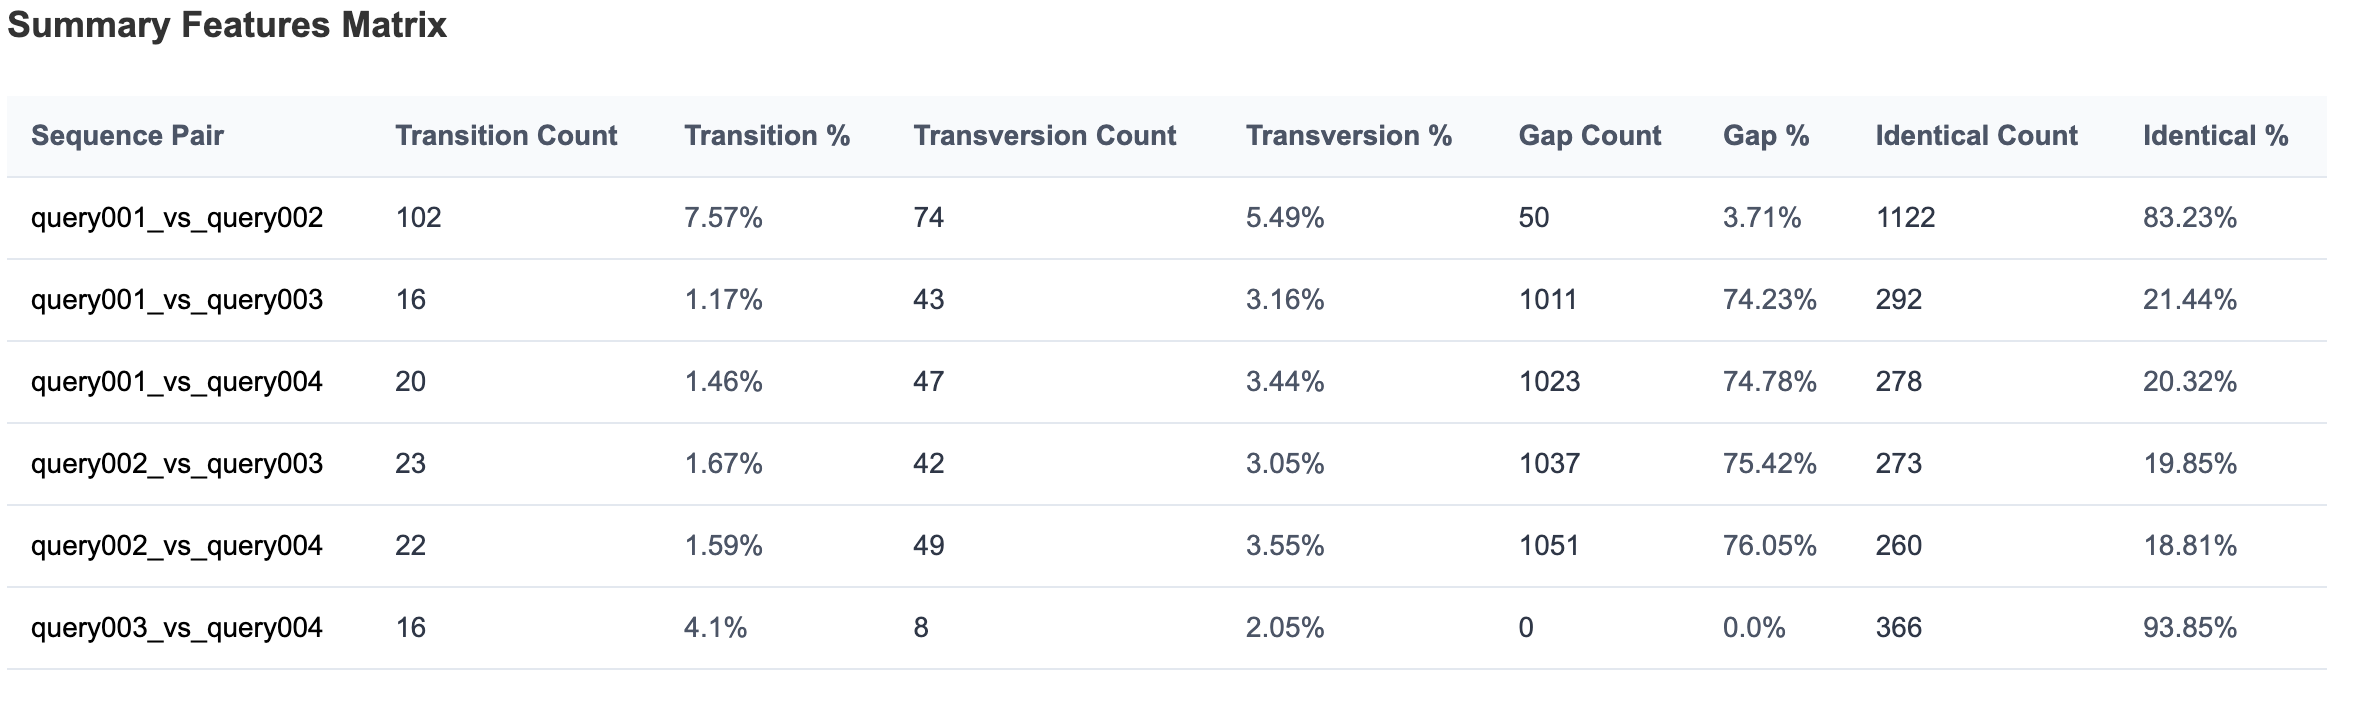
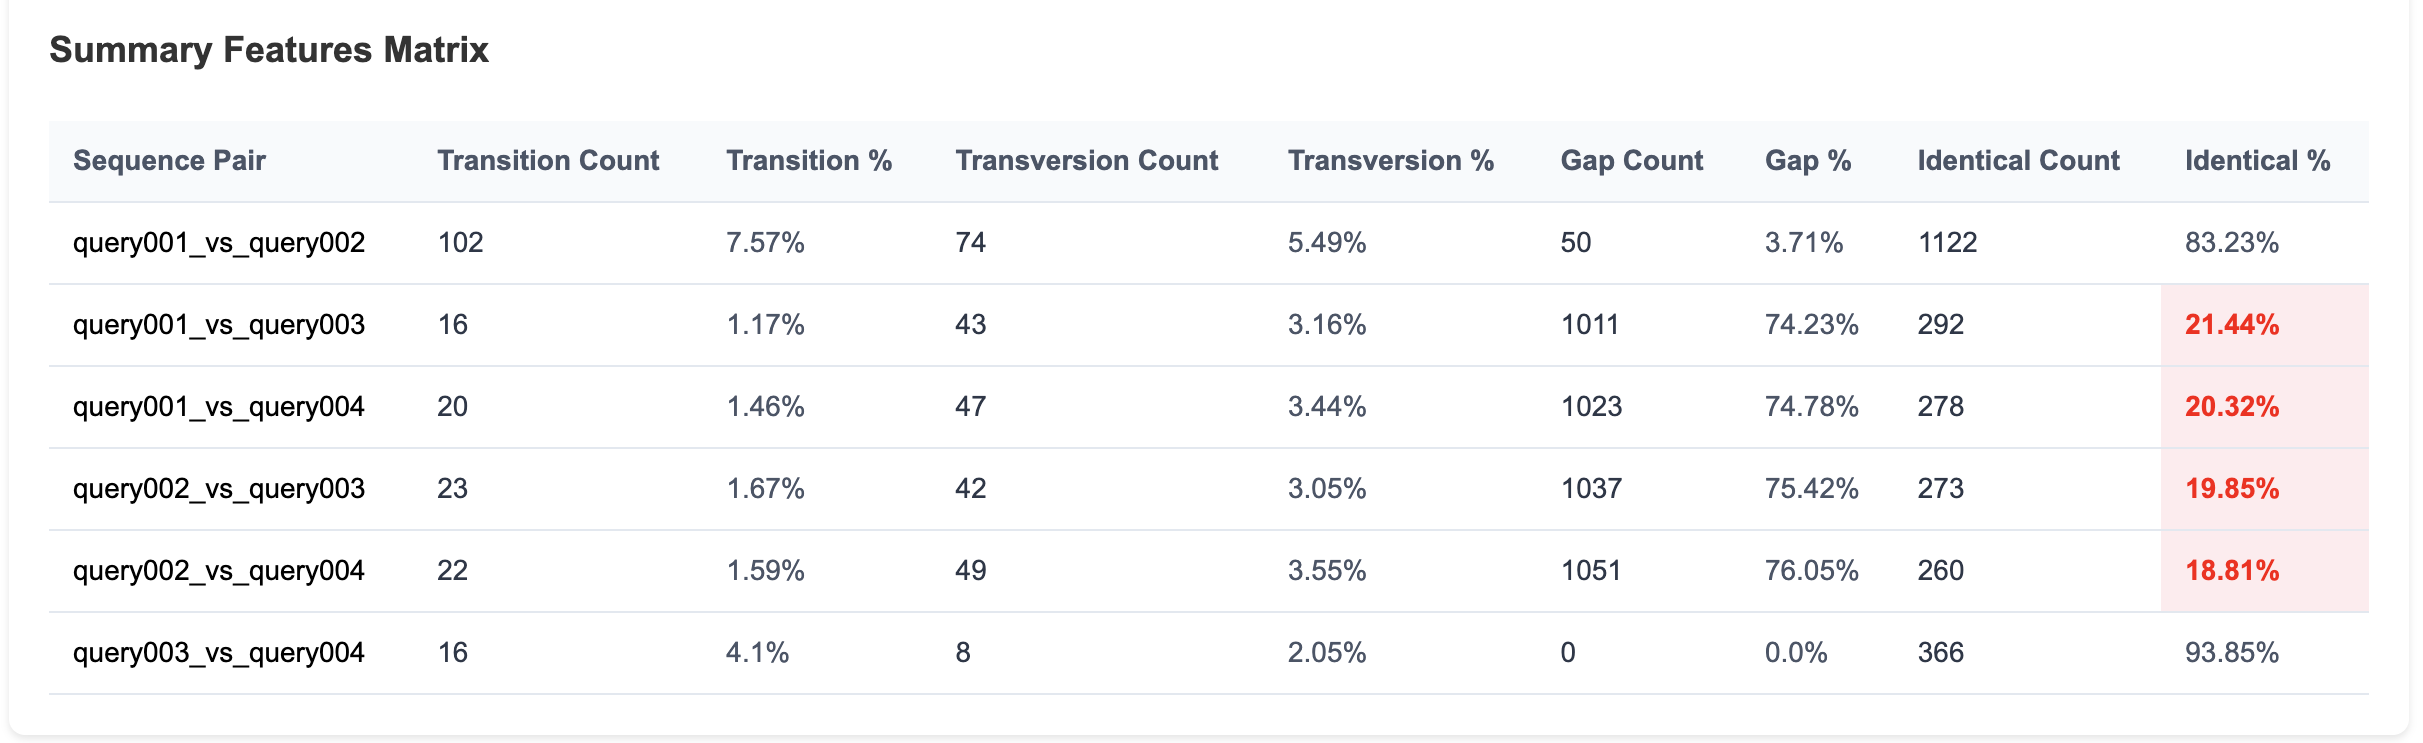
Update summary dashboard, color alignment, and related templates and scripts

diff --git a/app/templates/home.html b/app/templates/home.html
@@ -98,6 +98,7 @@
         </div>
         <br>
         
+        
 
         <!-- Button to Auto-Upload Sample File -->
         <button type="button" id="uploadSampleBtn" 
@@ -140,8 +141,12 @@
         <strong>Minimum Sequences:</strong> The file must contain at least two sequences.
       </li>
 
+      <li style="color: #d32f2f;">
+        <b style="color: inherit;">Since global alignment is performed, ensure that the sequences being compared share a significant level of similarity</b>. Although results will be generated for all sequence pairs, <br> those with less than <b style="color: inherit;">60%</b> identity will be specifically highlighted in the dashboard for further attention.
+      </li>
+      
       <li>
-        If EMBOSS Stretcher is selected, make sure the gap open and gap extend are above 1 and whole numbers <b>(NO FLOATS)</b>
+        If EMBOSS Stretcher is selected, make sure the gap open and gap extend are above 1 and whole numbers <b>(NO FLOATS).</b>
       </li>
       <li>
         <strong>File Size:</strong> The maximum file size is <b>10MB</b>. For larger files, please split them into smaller files before uploading.
@@ -152,19 +157,20 @@
           <li>
             <strong>Automatic Algorithm Selection:</strong> 
             <ul style="list-style-type: circle; padding-left: 20px; margin-top: 5px;">
-              <li>If <b>any sequence</b> exceeds <b>3,000 bases</b>, the system will automatically switch to the <b>Stretcher</b> algorithm for all sequence comparisons</li>
+              <li>If <b>any sequence</b> exceeds <b>3,000 bases</b>, the system will automatically switch to the <b>Stretcher</b> algorithm for all sequence comparisons.</li>
               <li>In this case, if your custom gap parameters are below 1:
                 <ul style="list-style-type: square; padding-left: 20px;">
                   <li>Gap Open will default to <b>16</b></li>
                   <li>Gap Extend will default to <b>4</b></li>
                 </ul>
               </li>
-              <li>This applies to <b>all sequences</b> in the file, regardless of their individual lengths</li>
+              <li>This applies to <b>all sequences</b> in the file, regardless of their individual lengths.</li>
             </ul>
           </li>
           <li>
             Files containing sequences longer than <b>10,000 bases</b> will be rejected.
           </li>
+      
           <br>
         </ul>
       </li>

diff --git a/app/static/js/colour_alignment.js b/app/static/js/colour_alignment.js
@@ -80,7 +80,7 @@ function updateQueryrequest(event) {
           </thead>
           <tbody>
             <tr>
-              <td style="border: 1px solid black; padding: 8px;">Identical</td>
+              <td style="border: 1px solid black; padding: 8px;">Identity</td>
               <td style="border: 1px solid black; padding: 8px;">${data.stats.identical}</td>
               <td style="border: 1px solid black; padding: 8px;">${data.stats.identical_percent.toFixed(2)}%</td>
             </tr>
@@ -95,7 +95,7 @@ function updateQueryrequest(event) {
               <td style="border: 1px solid black; padding: 8px;">${data.stats.transversions_percent.toFixed(2)}%</td>
             </tr>
             <tr>
-              <td style="border: 1px solid black; padding: 8px;">Gapes</td>
+              <td style="border: 1px solid black; padding: 8px;">Gaps</td>
               <td style="border: 1px solid black; padding: 8px;">${data.stats.gaps}</td>
               <td style="border: 1px solid black; padding: 8px;">${data.stats.gaps_percent.toFixed(2)}%</td>
             </tr>
@@ -117,7 +117,7 @@ function updateQueryrequest(event) {
         new Chart(ctx, {
           type: 'pie',
           data: {
-            labels: ['Identical', 'Transitions', 'Transversions', 'Gaps','Ambiguous (N)'],
+            labels: ['Identity', 'Transitions', 'Transversions', 'Gaps','Ambiguous (N)'],
             datasets: [{
               data: [
                 data.stats.identical_percent,

diff --git a/app/templates/partials/summary_dashboard.html b/app/templates/partials/summary_dashboard.html
@@ -99,7 +99,11 @@
                       <td class="count">{{ row['Gap_Count'] }}</td>
                       <td class="percentage">{{ row['Gap_Percentage']|round(2) }}%</td>
                       <td class="count">{{ row['Identical_Count'] }}</td>
-                      <td class="percentage">{{ row['Identical_Percentage']|round(2) }}%</td>
+                      <!-- Highlight Percentage if < 60% -->
+                      <td class="percentage" {% if row['Identical_Percentage'] < 60 %}style="background-color: #ffebee; color: red; font-weight: bold;"{% endif %}>
+                        {{ row['Identical_Percentage']|round(2) }}%
+                      </td>
+                      <!-- <td class="percentage">{{ row['Identical_Percentage']|round(2) }}%</td> -->
                   </tr>
                   {% endfor %}
               </tbody>

diff --git a/app/templates/example.html b/app/templates/example.html
@@ -130,8 +130,8 @@
                 <p>The Nucleotide Matrix provides detailed insights into individual nucleotide substitutions between compared sequences. In the above example of query 1 and query 2 :
                 <ul>
                     <li>Nucleotide "A" was substituted with "C" six times.</li>
-                    <li> was substituted with "G" twenty four times.</li>
-                    <li>"A" was substituted with "T" twice.</li>
+                    <li> Nucleotide "A" was substituted with "G" twenty four times.</li>
+                    <li> Nucleotide "A" was substituted with "T" twice.</li>
                 </ul>
                 <p>This matrix helps analyze mutation frequencies and different types of nucleotide changes.</p>
             </div>

diff --git a/app/templates/tutorial.html b/app/templates/tutorial.html
@@ -112,7 +112,7 @@
                 <h2>Step 3: Customizing Parameters</h2>
                 <p>Variantis allows customization of alignment settings:</p>
                 <ul>
-                    <li><strong>Pairwise Alignment Program:</strong> Choose between 
+                    <li><strong>Pairwise Global Alignment Program:</strong> Choose between 
                         <a class="highlight" href="https://www.bioinformatics.nl/cgi-bin/emboss/help/needle" target="_blank">EMBOSS Needle</a> 
                         and 
                         <a class="highlight" href="https://www.bioinformatics.nl/cgi-bin/emboss/help/stretcher" target="_blank">EMBOSS Stretcher</a>.
